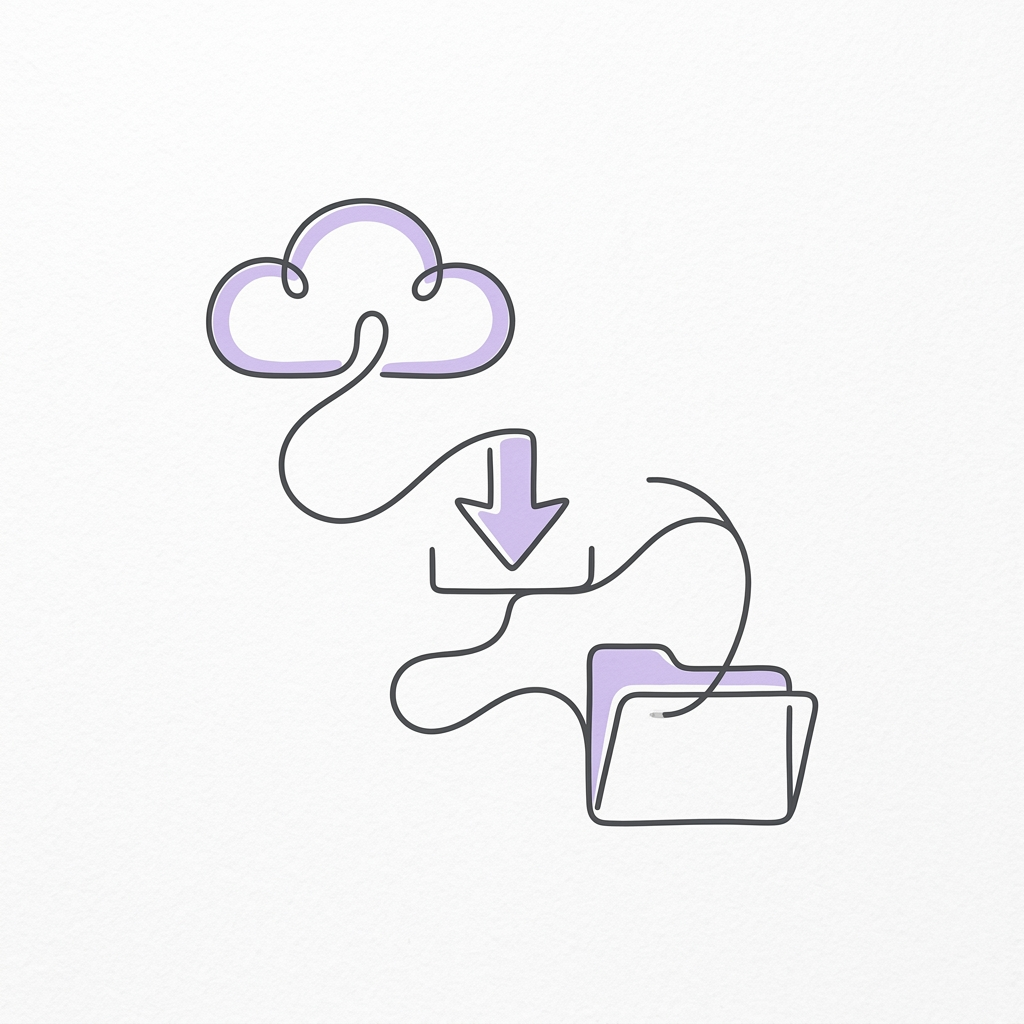
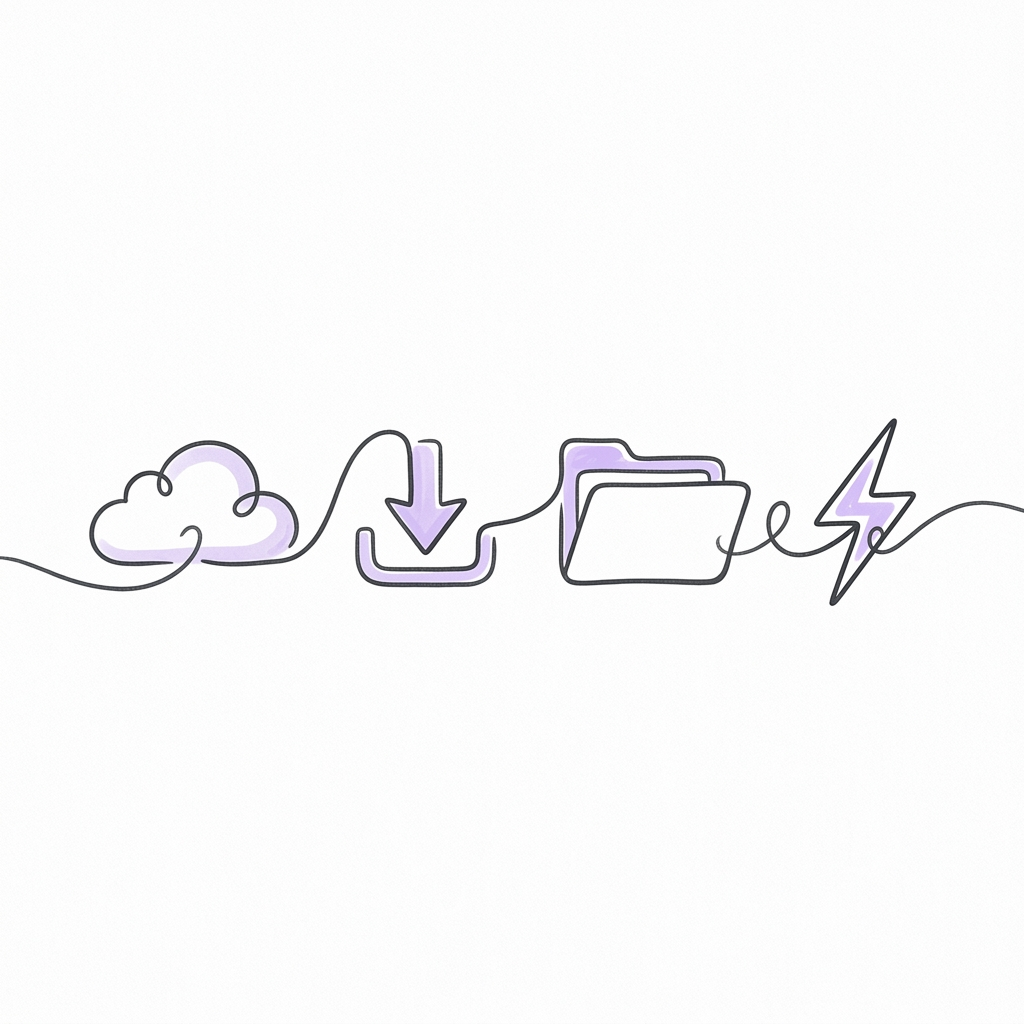
Update: Rename to LuminaFinder, new horizontal hero, and clean README

diff --git a/README.md b/README.md
@@ -1,8 +1,8 @@
-# 📂 Lumina Finder
+# 📂 LuminaFinder
 
-![Lumina Finder Hero](hero.png)
+![LuminaFinder Hero](hero.png)
 
-**Lumina Finder** is a lightweight, high-performance Chrome Extension designed to streamline your Google Drive and Google Docs experience. It provides a minimalist, unified interface for scanning folders and downloading files with advanced features like parallel processing and export format selection.
+**LuminaFinder** is a lightweight, high-performance Chrome Extension designed to streamline your Google Drive and Google Docs experience. It provides a minimalist, unified interface for scanning folders and downloading files with advanced features like parallel processing and export format selection.
 
 ---
 
@@ -56,6 +56,4 @@ Distributed under the MIT License. See `LICENSE` for more information.
 
 ---
 
-<p align="center">
-  Developed with ❤️ by Lumina Team
-</p>
+